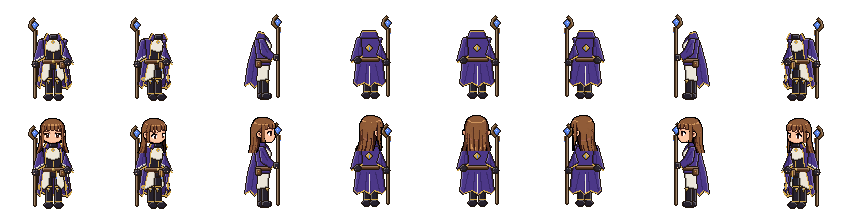
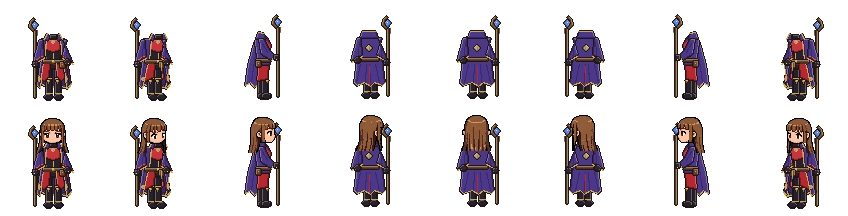
Sorcerer designs: the white panels, sleeve linings and her blouse turned red, like the Wizard's
Claude-Session: https://claude.ai/code/session_01YNjFsLY1wykPSJC6NrukSP

diff --git a/src/mages.js b/src/mages.js
@@ -1,9 +1,9 @@
 // Sprite designs for the Sorcerer and the Wizard, male and female, painted in code like the Blader
 // designs (bladers.js) on the bald bodies' frame, so the shared head and hair go on top
 // (docs/character-standard.md). After the owner's two sheets:
-// - Sorcerer: an open purple coat to the knee with gold-edged pointed hems and wide bell sleeves, a
-//   high collar, a black shirt with a gold and blue gem pendant, white inner panels, a brown belt
-//   with pouches, fingerless gloves, black trousers (black tights on her, with a white blouse and a
+// - Sorcerer: an open purple coat to the knee with gold-edged pointed hems and wide bell sleeves
+//   lined in red, a high collar, a black shirt with a gold and blue gem pendant, red inner panels, a
+//   brown belt with pouches, fingerless gloves, black trousers (black tights on her, with a red blouse and a
 //   black corset) and black boots edged in gold; a bronze staff holding a blue crystal in a ring.
 // - Wizard, grander than the Sorcerer: a deep navy robe to the ankles over a longer red layer,
 //   every point of its hem hung with a blue crystal, gold filigree down its panels, a tall flared
@@ -19,8 +19,8 @@ export const BW = 106, BH = 108; // the bald bodies' frame (src/art/trainee.json
 const LEGS = 63;                 // chin to ground, in pixels, in every direction
 
 const SORC = {
-  coat: '#4c3888', fold: '#3a2a6c', lining: '#ebe5d8', liningDk: '#cbc3b2', trim: '#cfa64c', shirt: '#25212d',
-  blouse: '#ede7da', leather: '#6e4529', strap: '#4c2f1e', pants: '#24202b', boot: '#26212c', skin: '#f2c8a2',
+  coat: '#4c3888', fold: '#3a2a6c', lining: '#b8262e', liningDk: '#861a22', trim: '#cfa64c', shirt: '#25212d',
+  blouse: '#c8343a', leather: '#6e4529', strap: '#4c2f1e', pants: '#24202b', boot: '#26212c', skin: '#f2c8a2',
   gem: '#5a86f0', shaft: '#7a5530', glove: '#2c2630',
 };
 const WIZ = {
@@ -45,7 +45,7 @@ function build(o) {
     f, W: f ? 11 : 12, waist: f ? 7 : 9, hip: f ? 10 : 9,
     legs: f ? [[-7, -2], [2, 7]] : [[-7, -2], [2, 7]],
     knee: o.wiz && f ? 34 : 42, // where the boots start, below the chin
-    hem: o.wiz ? 55 : f ? 52 : 50, // where the coat ends (the Wizard's white layer falls 3 lower)
+    hem: o.wiz ? 55 : f ? 52 : 50, // where the coat ends (the Wizard's red layer falls 3 lower)
   };
 }
 
@@ -138,14 +138,14 @@ function frontView(F, o, cx, cy, s, r) {
   const sx = cx - W - 8; // the staff, in the hand on the viewer's left, clear of long hair
 
   staff(F, sx, cy - 10, cy + 60, C, w);
-  // the coat's back half behind the legs: its white lining, its colour at the edges, pointed hem
+  // the coat's back half behind the legs: its red lining, its colour at the edges, pointed hem
   const back = [[cx - W - 6, cy + hem - 2], [cx - W - 3, cy + hem - 5], [cx - 4, cy + hem + 1], [R(cx + 4), cy + hem - 2], [R(cx + W + 4), cy + hem + 1], [R(cx + W + 7), cy + hem - 4]];
   F.part(poly([[cx - W, cy + 6], [R(cx + W), cy + 6], ...back.slice().reverse()]), C.coat);
   F.part(poly([[cx - W + 2, cy + 10], [R(cx + W - 2), cy + 10], [R(cx + W + 4), cy + hem - 3], [cx - 4, cy + hem - 1], [cx - W - 3, cy + hem - 6]]), C.fold, soft);
   F.part(line(cx - W - 1, cy + 20, cx - W - 4, cy + hem - 6, 2), C.lining, flat);
   F.part(line(R(cx + W + 1), cy + 20, R(cx + W + 4), cy + hem - 5, 2), C.lining, flat);
   edge(F, back.map(([x, y]) => [x, y - 1]), C.trim);
-  if (w) { // the white layer's points below the hem, each with a crystal
+  if (w) { // the red layer's points below the hem, each with a crystal
     for (const [x, y] of [[cx - W - 3, cy + hem - 2], [cx - 4, cy + hem + 4], [R(cx + W + 4), cy + hem + 4]]) {
       F.part(poly([[x - 3, y - 4], [x + 3, y - 4], [x, y]]), C.lining);
       crystal(F, x, y + 1, C, 0);
@@ -153,16 +153,16 @@ function frontView(F, o, cx, cy, s, r) {
   }
   legs(F, o, cx, cy, r, s);
 
-  // the body: a black shirt; on her, a white blouse over a black corset
+  // the body: a black shirt; on her, a red blouse over a black corset
   F.part(poly([[cx - W, cy + 3], [R(cx + W), cy + 3], [R(cx + W + 1), cy + 8], [R(cx + waist), cy + 22], [R(cx + hip), cy + 30], [cx - hip, cy + 30], [cx - waist, cy + 22], [cx - W - 1, cy + 8]]), C.shirt);
   if (f) {
     F.part(poly([[cx - 7 + s, cy + 4], [cx + 7 + s, cy + 4], [cx + 7 + s, cy + 14], [cx + s, cy + 16], [cx - 7 + s, cy + 14]]), C.blouse);
     F.part(line(cx + s, cy + 17, cx + s, cy + 23, 1), C.trim, flat);
   } else {
-    F.part(poly([[cx - 3 + s, cy + 6], [cx + 3 + s, cy + 6], [cx + 6 + s, cy + 24], [cx - 6 + s, cy + 24]]), C.lining, soft); // the white inner panel
+    F.part(poly([[cx - 3 + s, cy + 6], [cx + 3 + s, cy + 6], [cx + 6 + s, cy + 24], [cx - 6 + s, cy + 24]]), C.lining, soft); // the red inner panel
     F.part(line(cx + s, cy + 3, cx + s, cy + 10, 1), C.trim, flat); // the pendant's chain
   }
-  // below the belt: white panels down the front (a skirt on her), open over the legs
+  // below the belt: red panels down the front (a skirt on her), open over the legs
   const pl = f ? (w ? 46 : 44) : (w ? 56 : 48);
   if (f) F.part(poly([[cx - hip, cy + 27], [R(cx + hip), cy + 27], [R(cx + hip + 1), cy + 33], [cx - hip - 1, cy + 33]]), C.shirt); // her short black skirt
   F.part(poly([[cx - hip, cy + 27], [cx - 3 + s, cy + 27], [cx - 4 + s, cy + pl - 3], [cx - hip + 1, cy + pl + 1], [cx - hip - 2, cy + pl - 2]]), C.lining);
@@ -176,7 +176,7 @@ function frontView(F, o, cx, cy, s, r) {
     const pts = f && !w
       ? [[ix, cy + 3], [ox, cy + 3], [ox - side, cy + 16], [bx, cy + hem - 3], [bx + side * -3, cy + hem], [mx + side * 2, cy + 30], [ix + side * 2, cy + 24]] // her jacket: short in front, tails to the sides
       : [[ix, cy + 3], [ox, cy + 3], [ox - side, cy + 16], [bx, cy + hem - 2], [bx - side * 3, cy + hem + 1], [mx, cy + hem - 4], [mx, cy + 30], [ix + side, cy + 22]];
-    if (w) { // the white layer under it, longer, pointed, with crystals
+    if (w) { // the red layer under it, longer, pointed, with crystals
       const lp = [[mx, cy + 30], [mx, cy + hem], [(bx + mx) / 2, cy + hem + 4], [bx - side * 3, cy + hem + 4], [bx, cy + hem]];
       F.part(poly(lp), C.lining);
       edge(F, lp.slice(1, 4), C.liningDk);
@@ -239,7 +239,7 @@ function frontView(F, o, cx, cy, s, r) {
   F.part(rect(cx - 3 + s, cy - 1, cx + 3 + s, cy + 2), C.shirt); // the shirt's own high collar
   mark(F, cx + s, f ? cy + 6 : cy + 12, C, w);
 
-  // bell sleeves flaring wide, the white lining showing in the slanted opening, the gloved hands
+  // bell sleeves flaring wide, the red lining showing in the slanted opening, the gloved hands
   // under them; the near hand holds the staff. The Wizard's are longer, with a crystal tassel
   for (const side of [-1, 1]) {
     const x0 = side < 0 ? cx - W - 3 : R(cx + W - 1), x1 = side < 0 ? cx - W + 1 : R(cx + W + 3);
@@ -270,9 +270,9 @@ function backView(F, o, cx, cy, s, r) {
   F.part(poly([[cx - W, cy + 4], [R(cx + W), cy + 4], [R(cx + W + 2), cy + 16], ...tails, [cx - W - 2, cy + 16]]), C.coat);
   edge(F, tails.map(([x, y]) => [x, y - 1]), C.trim);
   for (const [a, b] of [[-W + 2, -W - 2], [W - 2 - r, W + 2 - r], [-3, -4], [3 - r, 4 - r]]) F.part(line(cx + a + s, cy + 30, cx + b + s, cy + hem - 4, 1), C.fold, flat);
-  F.part(line(cx + s, cy + 32, cx + s, cy + hem - 2, 1), C.lining, flat); // the white layer shows in the split
+  F.part(line(cx + s, cy + 32, cx + s, cy + hem - 2, 1), C.lining, flat); // the red layer shows in the split
   if (w) {
-    // the white layer's points below every tail, each with a crystal; gold filigree up the robe
+    // the red layer's points below every tail, each with a crystal; gold filigree up the robe
     for (const [x, y] of tails.filter((_, i) => i % 2 === 1)) {
       F.part(poly([[x - 3, y - 3], [x + 3, y - 3], [x, y + 3]]), C.lining);
       crystal(F, x, y + 4, C, 0);
@@ -347,7 +347,7 @@ function side(F, o, cx, cy) {
   };
   leg(cx - 2);
   leg(cx + 2);
-  // the white layer and the coat's front edge
+  // the red layer and the coat's front edge
   F.part(poly([[cx - 4, cy + 27], [cx + 6, cy + 27], [cx + 5, cy + (f ? 44 : 48)], [cx - 6, cy + (f ? 46 : 50)]]), C.lining);
   if (!(f && !w)) {
     const pts = [[cx + 3, cy + 26], [cx + 7, cy + 26], [cx + 6, cy + hem - 2], [cx + 2, cy + hem + 1]];
